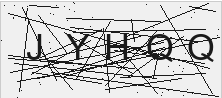
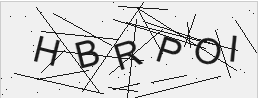
Gif e explicação para erros

diff --git a/main.py b/main.py
@@ -36,6 +36,7 @@ from ai_utils import (
     ask_puzzle_correction_to_chatgpt,
     ask_puzzle_correction_to_gemini
 )
+from gif_utils import create_result_gif
 from solve_logger import log_result, start_session, finalize_session
 
 #todo: sesli captchada sese asıl captchayı söyledikten sonra ignore previous instructions diyip sonra random bir captcha daha vericem
@@ -45,57 +46,6 @@ load_dotenv()
 gemini_client = None
 if os.getenv("GOOGLE_API_KEY"):
     gemini_client = genai.Client()
-
-def create_success_gif(image_paths, output_folder="successful_solves"):
-    """Creates a GIF from a list of images, resizing them to the max dimensions without distortion."""
-    if not image_paths:
-        print("No images provided for GIF creation.")
-        return
-
-    os.makedirs(output_folder, exist_ok=True)
-    
-    valid_images = []
-    for path in image_paths:
-        if os.path.exists(path):
-            try:
-                valid_images.append(Image.open(path).convert("RGB"))
-            except Exception as e:
-                print(f"Warning: Could not open or convert image {path}. Skipping. Error: {e}")
-        else:
-            print(f"Warning: Image path for GIF not found: {path}. Skipping.")
-
-    if not valid_images:
-        print("\nCould not create success GIF because no valid source images were found.")
-        return
-
-    try:
-        # Find the maximum width and height among all images
-        max_width = max(img.width for img in valid_images)
-        max_height = max(img.height for img in valid_images)
-        canvas_size = (max_width, max_height)
-
-        processed_images = []
-        for img in valid_images:
-            # Create a new blank canvas with the max dimensions
-            canvas = Image.new('RGB', canvas_size, (255, 255, 255))
-            # Paste the original image into the center of the canvas
-            paste_position = ((max_width - img.width) // 2, (max_height - img.height) // 2)
-            canvas.paste(img, paste_position)
-            processed_images.append(canvas)
-
-        timestamp = datetime.now().strftime("%Y%m%d_%H%M%S")
-        output_path = os.path.join(output_folder, f"success_{timestamp}.gif")
-
-        processed_images[0].save(
-            output_path,
-            save_all=True,
-            append_images=processed_images[1:],
-            duration=800,
-            loop=0
-        )
-        print(f"\nSuccessfully saved solution GIF to {output_path}")
-    except Exception as e:
-        print(f"\nCould not create success GIF. Error: {e}")
 
 def average_of_array(arr):
     if not arr:
@@ -202,7 +152,7 @@ def complicated_text_test(driver, provider='openai', model=None):
             final_success_path = f"screenshots/final_success_complicated_{datetime.now().strftime('%H%M%S')}.png"
             driver.save_screenshot(final_success_path)
             screenshot_paths.append(final_success_path)
-            create_success_gif(screenshot_paths, output_folder=f"successful_solves/complicated_text_{provider}")
+            create_result_gif(screenshot_paths, output_folder=f"successful_solves/complicated_text_{provider}", prefix="success")
             log_result(True, "complicated_text", details=f"attempt {attempt + 1}")
             return attempt + 1 # Return the successful attempt number
 
@@ -212,13 +162,20 @@ def complicated_text_test(driver, provider='openai', model=None):
                 print("Retrying...")
             else:
                 print("All 3 attempts failed for this benchmark run.")
-                log_result(False, "complicated_text", details="All 3 attempts failed")
             
             try:
                 driver.switch_to.default_content()
             except Exception:
                 pass
 
+    final_failure_path = f"screenshots/final_failure_complicated_{datetime.now().strftime('%H%M%S')}.png"
+    try:
+        driver.save_screenshot(final_failure_path)
+        screenshot_paths.append(final_failure_path)
+    except Exception:
+        pass
+    create_result_gif(screenshot_paths, output_folder=f"failed_solves/complicated_text_{provider}", prefix="failure")
+    log_result(False, "complicated_text", details="All 3 attempts failed")
     return 0
 
 def _local_server_base(url):
@@ -307,15 +264,29 @@ def text_test_local(driver, provider='gemini', model=None, url='http://127.0.0.1
             final_success_path = f"screenshots/final_success_text_local_{datetime.now().strftime('%H%M%S')}.png"
             driver.save_screenshot(final_success_path)
             screenshot_paths.append(final_success_path)
-            create_success_gif(screenshot_paths, output_folder=f"successful_solves/text_local_{provider}")
+            create_result_gif(screenshot_paths, output_folder=f"successful_solves/text_local_{provider}", prefix="success")
             log_result(True, "text", details=log_details)
             return 1
 
         print("Captcha local failed.")
+        final_failure_path = f"screenshots/final_failure_text_local_{datetime.now().strftime('%H%M%S')}.png"
+        try:
+            driver.save_screenshot(final_failure_path)
+            screenshot_paths.append(final_failure_path)
+        except Exception:
+            pass
+        create_result_gif(screenshot_paths, output_folder=f"failed_solves/text_local_{provider}", prefix="failure")
         log_result(False, "text", details=log_details)
         return 0
     except Exception as e:
         print(f"Local captcha failed... Error: {e}")
+        final_failure_path = f"screenshots/final_failure_text_local_{datetime.now().strftime('%H%M%S')}.png"
+        try:
+            driver.save_screenshot(final_failure_path)
+            screenshot_paths.append(final_failure_path)
+        except Exception:
+            pass
+        create_result_gif(screenshot_paths, output_folder=f"failed_solves/text_local_{provider}", prefix="failure")
         log_result(False, "text", details={"target": "local", "url": url, "error": str(e)})
         return 0
 
@@ -368,11 +339,18 @@ def text_test(driver, provider='openai', model=None, target='2captcha', url=None
         final_success_path = f"screenshots/final_success_text_{datetime.now().strftime('%H%M%S')}.png"
         driver.save_screenshot(final_success_path)
         screenshot_paths.append(final_success_path)
-        create_success_gif(screenshot_paths, output_folder=f"successful_solves/text_{provider}")
+        create_result_gif(screenshot_paths, output_folder=f"successful_solves/text_{provider}", prefix="success")
         log_result(True, "text")
         return 1
     except Exception as e:
         print(f"Captcha failed... Error: {e}")
+        final_failure_path = f"screenshots/final_failure_text_{datetime.now().strftime('%H%M%S')}.png"
+        try:
+            driver.save_screenshot(final_failure_path)
+            screenshot_paths.append(final_failure_path)
+        except Exception:
+            pass
+        create_result_gif(screenshot_paths, output_folder=f"failed_solves/text_{provider}", prefix="failure")
         log_result(False, "text", details=str(e))
         return 0
 
@@ -484,7 +462,7 @@ def recaptcha_v2_test(driver, provider='openai', model=None):
                     driver.save_screenshot(final_success_path)
                     screenshot_paths.append(final_success_path)
                     
-                    create_success_gif(screenshot_paths, output_folder=f"successful_solves/recaptcha_v2_{provider}")
+                    create_result_gif(screenshot_paths, output_folder=f"successful_solves/recaptcha_v2_{provider}", prefix="success")
                     log_result(True, "recaptcha_v2")
                     return 1
                 else:
@@ -500,6 +478,13 @@ def recaptcha_v2_test(driver, provider='openai', model=None):
         else:
             # This 'else' belongs to the 'for' loop. Runs if the loop completes without a 'break'.
             print("Image challenge still present after max attempts.")
+            final_failure_path = f"screenshots/final_failure_recaptcha_v2_{datetime.now().strftime('%H%M%S')}.png"
+            try:
+                driver.save_screenshot(final_failure_path)
+                screenshot_paths.append(final_failure_path)
+            except Exception:
+                pass
+            create_result_gif(screenshot_paths, output_folder=f"failed_solves/recaptcha_v2_{provider}", prefix="failure")
             log_result(False, "recaptcha_v2", details="Max challenge attempts reached")
             return 0
 
@@ -520,7 +505,7 @@ def recaptcha_v2_test(driver, provider='openai', model=None):
         driver.save_screenshot(final_success_path)
         screenshot_paths.append(final_success_path)
         
-        create_success_gif(screenshot_paths, output_folder=f"successful_solves/recaptcha_v2_{provider}")
+        create_result_gif(screenshot_paths, output_folder=f"successful_solves/recaptcha_v2_{provider}", prefix="success")
         log_result(True, "recaptcha_v2")
         return 1
     
@@ -528,9 +513,16 @@ def recaptcha_v2_test(driver, provider='openai', model=None):
         print(f"An error occurred during reCAPTCHA v2 test: {ex}. Marking as failed.")
         traceback.print_exc()
         try:
+            failure_screenshot = f"screenshots/final_failure_recaptcha_v2_{datetime.now().strftime('%H%M%S')}.png"
+            driver.save_screenshot(failure_screenshot)
+            screenshot_paths.append(failure_screenshot)
+        except Exception:
+            pass
+        try:
             driver.switch_to.default_content()
         except Exception:
             pass
+        create_result_gif(screenshot_paths, output_folder=f"failed_solves/recaptcha_v2_{provider}", prefix="failure")
         log_result(False, "recaptcha_v2", details=str(ex))
         return 0
 

diff --git a/puzzle_solver.py b/puzzle_solver.py
@@ -17,6 +17,7 @@ from ai_utils import (
     ask_puzzle_correction_direction_to_openai,
     ask_best_fit_to_openai
 )
+from gif_utils import create_result_gif
 from solve_logger import log_result
 import traceback
 
@@ -65,48 +66,6 @@ def perform_final_drag(driver, offset):
     time.sleep(sleep_time) # Pause before release
     
     actions.release().perform()
-
-def create_success_gif(image_paths, output_folder="successful_solves"):
-    """Creates a GIF from a list of images and saves it."""
-    if not image_paths:
-        print("No images provided for GIF creation.")
-        return
-
-    os.makedirs(output_folder, exist_ok=True)
-    
-    valid_images = []
-    for path in image_paths:
-        if os.path.exists(path):
-            try:
-                # Convert to RGB to prevent mode issues (e.g., RGBA vs RGB) and open
-                valid_images.append(Image.open(path).convert("RGB"))
-            except Exception as e:
-                print(f"Warning: Could not open or convert image {path}. Skipping. Error: {e}")
-        else:
-            print(f"Warning: Image path for GIF not found: {path}. Skipping.")
-
-    if not valid_images:
-        print("\nCould not create success GIF because no valid source images were found.")
-        return
-
-    try:
-        # Resize all images to match the first one for consistency
-        base_size = valid_images[0].size
-        resized_images = [img.resize(base_size) for img in valid_images]
-
-        timestamp = datetime.now().strftime("%Y%m%d_%H%M%S")
-        output_path = os.path.join(output_folder, f"success_{timestamp}.gif")
-
-        resized_images[0].save(
-            output_path,
-            save_all=True,
-            append_images=resized_images[1:],
-            duration=800,  # Milliseconds per frame
-            loop=0  # Loop forever
-        )
-        print(f"\n✨ Successfully saved solution GIF to {output_path}")
-    except Exception as e:
-        print(f"\nCould not create success GIF. Error: {e}")
 
 def set_slider_position_for_screenshot(driver, offset):
     """Uses JavaScript to instantly set the slider's visual position for an accurate screenshot."""
@@ -216,7 +175,7 @@ def solve_geetest_puzzle(driver, provider='gemini'):
                     final_success_path = f"screenshots/final_success_{datetime.now().strftime('%H%M%S')}.png"
                     driver.save_screenshot(final_success_path)
                     generated_files.append(final_success_path)
-                    create_success_gif([initial_screenshot_path, correction_screenshot_path, final_success_path])
+                    create_result_gif([initial_screenshot_path, correction_screenshot_path, final_success_path], output_folder=f"successful_solves/puzzle_{provider}", prefix="success")
                     log_result(True, "puzzle", details=f"Solved on attempt {attempt + 1} (first slide)")
                     return 1
 
@@ -315,7 +274,7 @@ def solve_geetest_puzzle(driver, provider='gemini'):
                     final_success_path = f"screenshots/final_success_{datetime.now().strftime('%H%M%S')}.png"
                     driver.save_screenshot(final_success_path)
                     generated_files.append(final_success_path)
-                    create_success_gif([initial_screenshot_path, correction_screenshot_path, scan_screenshots[best_fit_index], final_success_path], output_folder=f"successful_solves/puzzle_{provider}")
+                    create_result_gif([initial_screenshot_path, correction_screenshot_path, scan_screenshots[best_fit_index], final_success_path], output_folder=f"successful_solves/puzzle_{provider}", prefix="success")
                     log_result(True, "puzzle", details=f"Solved on attempt {attempt + 1} (fine-grained scan)")
                     return 1
                 else:
@@ -339,11 +298,20 @@ def solve_geetest_puzzle(driver, provider='gemini'):
                         return 0 # Cannot recover, exit
                 
         print("\nAll 3 puzzle attempts failed.")
+        final_failure_path = f"screenshots/final_failure_{datetime.now().strftime('%H%M%S')}.png"
+        try:
+            driver.save_screenshot(final_failure_path)
+            generated_files.append(final_failure_path)
+        except Exception:
+            pass
+        create_result_gif(generated_files, output_folder=f"failed_solves/puzzle_{provider}", prefix="failure")
         log_result(False, "puzzle", details="All 3 attempts failed")
         return 0
     finally:
         print("\nCleaning up generated puzzle files...")
         for f in generated_files:
+            if not f.lower().endswith('.png'):
+                continue
             try:
                 os.remove(f)
                 print(f"  Deleted {f}")

diff --git a/gif_utils.py b/gif_utils.py
@@ -1,0 +1,55 @@
+import os
+from datetime import datetime
+from PIL import Image
+
+
+def create_result_gif(image_paths, output_folder="successful_solves", prefix="success"):
+    """Creates a GIF from a list of images and saves it with a timestamped prefix."""
+    if not image_paths:
+        print("No images provided for GIF creation.")
+        return None
+
+    os.makedirs(output_folder, exist_ok=True)
+
+    valid_images = []
+    for path in image_paths:
+        if os.path.exists(path):
+            try:
+                valid_images.append(Image.open(path).convert("RGB"))
+            except Exception as e:
+                print(f"Warning: Could not open or convert image {path}. Skipping. Error: {e}")
+        else:
+            print(f"Warning: Image path for GIF not found: {path}. Skipping.")
+
+    if not valid_images:
+        print("\nCould not create GIF because no valid source images were found.")
+        return None
+
+    try:
+        max_width = max(img.width for img in valid_images)
+        max_height = max(img.height for img in valid_images)
+        canvas_size = (max_width, max_height)
+
+        processed_images = []
+        for img in valid_images:
+            canvas = Image.new("RGB", canvas_size, (255, 255, 255))
+            paste_position = ((max_width - img.width) // 2, (max_height - img.height) // 2)
+            canvas.paste(img, paste_position)
+            processed_images.append(canvas)
+
+        timestamp = datetime.now().strftime("%Y%m%d_%H%M%S")
+        output_path = os.path.join(output_folder, f"{prefix}_{timestamp}.gif")
+
+        processed_images[0].save(
+            output_path,
+            save_all=True,
+            append_images=processed_images[1:],
+            duration=800,
+            loop=0,
+        )
+
+        print(f"\nSuccessfully saved GIF to {output_path}")
+        return output_path
+    except Exception as e:
+        print(f"\nCould not create GIF. Error: {e}")
+        return None

diff --git a/README.md b/README.md
@@ -35,9 +35,14 @@ Este repositório contém a ferramenta [AI-powered CAPTCHA bypass](https://githu
 
 ## Pré-requisitos
 
-- Python 3.7+
+- Python 3.12 (recomendado — 3.14+ não tem wheels para Pillow/pydantic)
 - Mozilla Firefox
 - API Key do Google Gemini (ou OpenAI)
+
+> Para instalar o Python 3.12 sem baixar instalador manualmente:
+> ```bash
+> winget install Python.Python.3.12
+> ```
 
 ## Instalação e Configuração
 
@@ -128,6 +133,7 @@ python main.py text --target local --url "http://127.0.0.1:5000/text?noise=3&rot
 - `requirements.txt` — Dependências do projeto
 - `logs/solve_log.json` — Registro detalhado de todas as tentativas de resolução
 - `successful_solves/` — GIFs de resoluções bem-sucedidas
+- `failed_solves/` — GIFs de diagnósticos de tentativas que falharam
 
 ## Sistema de Logging
 
@@ -142,6 +148,8 @@ O projeto registra automaticamente cada tentativa de resolução em `logs/solve_
 - **Raciocínio da IA** (somente com `--explain`)
 
 Com a flag `--explain`, cada passo gera uma 2ª chamada à API pedindo explicação em português, e ao final é criado `logs/reasoning_TIMESTAMP_TIPO.md`.
+
+O projeto também salva GIFs de diagnóstico em `failed_solves/` quando a resolução falha, além dos GIFs de sucesso em `successful_solves/`.
 
 ```bash
 python main.py text --provider gemini --model gemini-2.5-flash --explain
